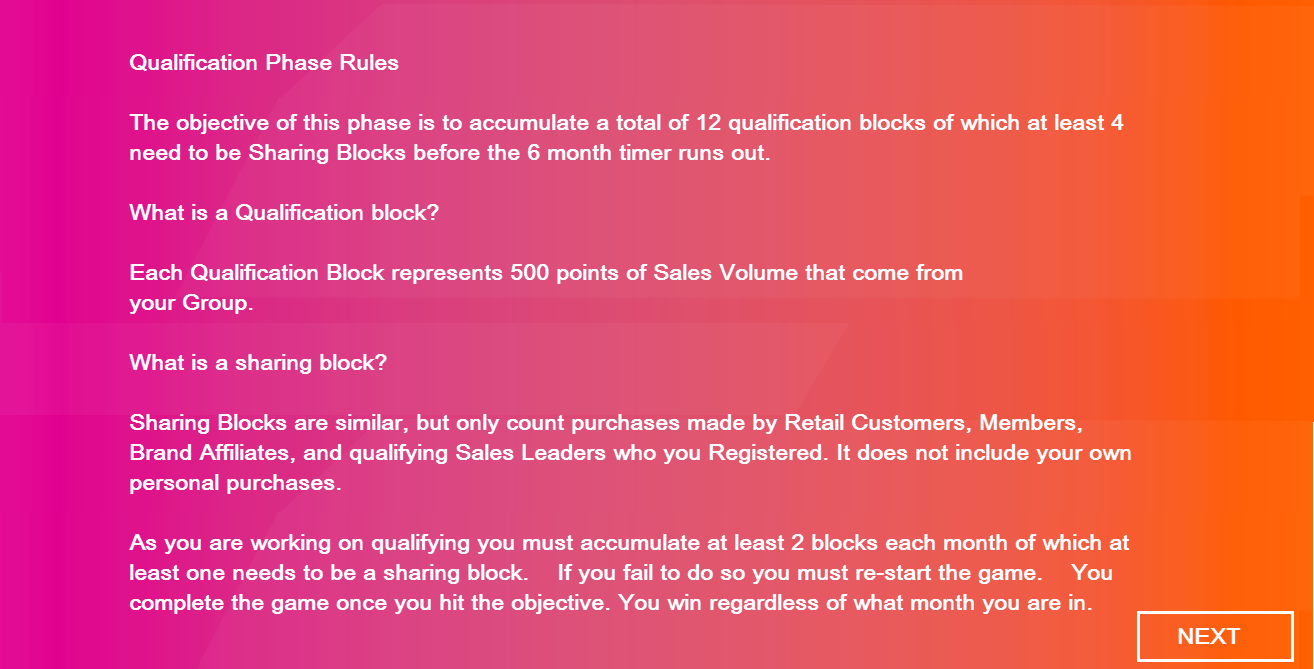
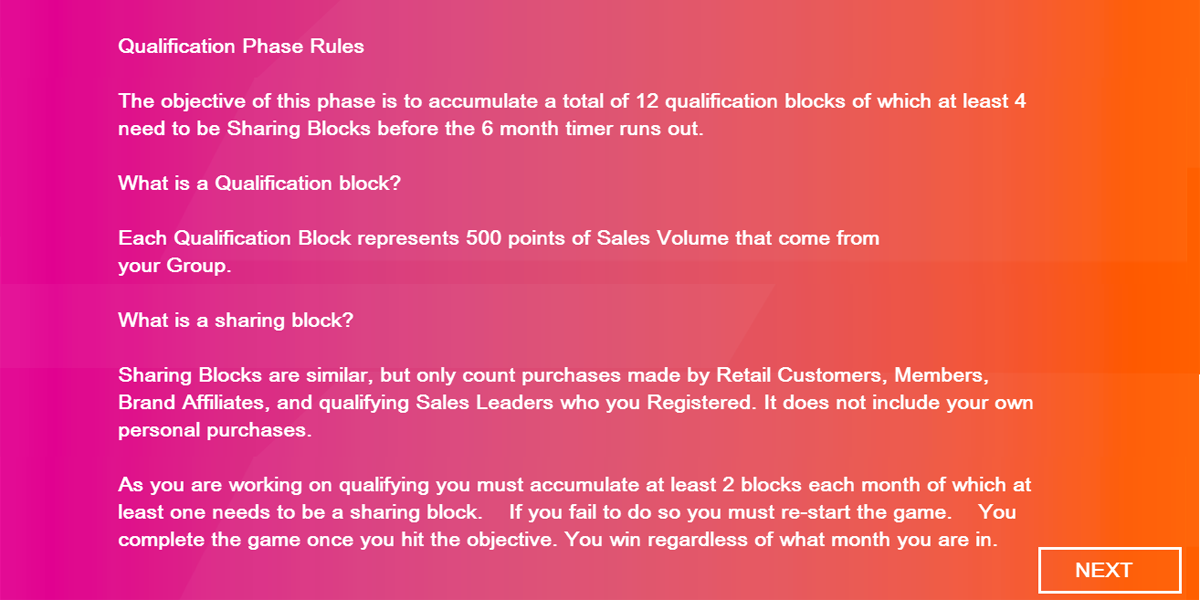
Add congrats image and fix image sizes

diff --git a/assets/canvas/Level2.js b/assets/canvas/Level2.js
@@ -6,20 +6,20 @@
 
 var groupSalesVolume = 0, personalSalesVolume = 0, percentDone, progress, numberDistributors = 0, congrats;
 /**
- * Level.
+ * Level2.
  */
-function Level() {
+function Level2() {
 	
 	Phaser.State.call(this);
 	
 }
 
 /** @type Phaser.State */
-var Level_proto = Object.create(Phaser.State.prototype);
-Level.prototype = Level_proto;
-Level.prototype.constructor = Level;
+var Level2_proto = Object.create(Phaser.State.prototype);
+Level2.prototype = Level2_proto;
+Level2.prototype.constructor = Level2;
 
-Level.prototype.init = function () {
+Level2.prototype.init = function () {
 	
 	this.scale.scaleMode = Phaser.ScaleManager.SHOW_ALL;
 	this.scale.pageAlignHorizontally = true;
@@ -27,15 +27,15 @@ Level.prototype.init = function () {
 	
 };
 
-Level.prototype.preload = function () {
+Level2.prototype.preload = function () {
 	
-	this.load.pack('level', 'assets/pack.json');
+	this.load.pack('level2', 'assets/pack2.json');
   this.load.image('bar', 'assets/images/bar.png');
   this.load.image('congrats', 'assets/images/congrats.png')
 
 };
 
-Level.prototype.create = function () {
+Level2.prototype.create = function () {
 	
 	this.beforeCreate();
 	
@@ -372,7 +372,7 @@ Level.prototype.create = function () {
 
 /* --- end generated code --- */
 
-Level.prototype.beforeCreate = function() {
+Level2.prototype.beforeCreate = function() {
 	// world
 	this.world.resize(2200, 1800);
 
@@ -386,56 +386,54 @@ Level.prototype.beforeCreate = function() {
 	this.cursors = this.input.keyboard.createCursorKeys();
 };
 
-Level.prototype.afterCreate = function () {
+Level2.prototype.afterCreate = function () {
 	this.camera.follow(this.fPlayer);
 };
 
-Level.prototype.update = function() {
+Level2.prototype.update = function() {
 	this.physics.arcade.collide(this.fPlayer, this.fCollisionLayer);
   var playerOverlap = this.physics.arcade.overlap(this.fPlayer, this.fFruits, collectFruit, null, this);
-	if (!congrats.visible)
-	{
-    if (this.cursors.left.isDown) {
-      // move to the left
-      this.fPlayer.body.velocity.x = -200;
-    } else if (this.cursors.right.isDown) {
-      // move to the right
-      this.fPlayer.body.velocity.x = 200;
-    } else {
-      // dont move in the horizontal
-      this.fPlayer.body.velocity.x = 0;
-    }
+	if (this.cursors.left.isDown) {
+		// move to the left
+		this.fPlayer.body.velocity.x = -200;
+	} else if (this.cursors.right.isDown) {
+		// move to the right
+		this.fPlayer.body.velocity.x = 200;
+	} else {
+		// dont move in the horizontal
+		this.fPlayer.body.velocity.x = 0;
+	}
 
-    // a flag to know if the player is (down) touching the platforms
-    var touching = this.fPlayer.body.touching.down;
+	// a flag to know if the player is (down) touching the platforms
+	var touching = this.fPlayer.body.touching.down;
 
-    if (touching && this.cursors.up.isDown) {
-      // jump if the player is on top of a platform and the up key is pressed
-      this.fPlayer.body.velocity.y = -600;
-    }
-
-    if (touching) {
-      if (this.fPlayer.body.velocity.x == 0) {
-        // if it is not moving horizontally play the idle
-        this.fPlayer.play("idle");
-      } else {
-        // if it is moving play the walk
-        this.fPlayer.play("walk");
-      }
-    } else {
-      // it is not touching the platforms so it means it is jumping.
-      this.fPlayer.play("jump");
-    }
-
-		// update the facing of the player
-		if (this.cursors.left.isDown) {
-				// face left
-				this.fPlayer.scale.x = -1;
-		} else if (this.cursors.right.isDown) {
-			 // face right
-			 this.fPlayer.scale.x = 1;
-		}
-  }
+	if (touching && this.cursors.up.isDown) {
+		// jump if the player is on top of a platform and the up key is pressed
+		this.fPlayer.body.velocity.y = -600;
+	}
+	
+	if (touching) {
+	    if (this.fPlayer.body.velocity.x == 0) {
+	        // if it is not moving horizontally play the idle
+	        this.fPlayer.play("idle");
+	    } else {
+	        // if it is moving play the walk
+	        this.fPlayer.play("walk");
+	    }
+	} else {
+	    // it is not touching the platforms so it means it is jumping.
+	    this.fPlayer.play("jump");
+	}
+	
+	// update the facing of the player
+	if (this.cursors.left.isDown) {
+	    // face left
+	    this.fPlayer.scale.x = -1;
+	} else if (this.cursors.right.isDown) {
+	   // face right
+	   this.fPlayer.scale.x = 1;
+	}
+	
 	// fruits
 	this.physics.arcade.overlap(this.fPlayer, this.fFruits, this.playerVsFruit, null, this);
 	
@@ -449,9 +447,7 @@ Level.prototype.update = function() {
   if (numberDistributors > 0 && groupSalesVolume > 100)
 	{
 		congrats.visible = true;
-    this.fPlayer.play("idle");
-    this.fPlayer.body.velocity.x = 0;
-    this.fPlayer.body.velocity.y = 0;
+		this.game.paused = true;
 	}
 };
 
@@ -461,7 +457,7 @@ Level.prototype.update = function() {
  * @param {Phaser.Sprite}
  *            fruit
  */
-Level.prototype.playerVsFruit = function(player, fruit) {
+Level2.prototype.playerVsFruit = function(player, fruit) {
 	fruit.body.enable = false;
 	
 	this.add.tween(fruit).to({
@@ -478,9 +474,9 @@ Level.prototype.playerVsFruit = function(player, fruit) {
 	}, 1000, "Linear", true).onComplete.add(fruit.kill, fruit);
 };
 
-Level.prototype.nextLevel = function()
+Level2.prototype.nextLevel = function()
 {
-  this.game.state.start("QualifyingRules");
+
 }
 
 function collectFruit(player, fruit)

diff --git a/js/qualRules.js b/js/qualRules.js
@@ -1,0 +1,13 @@
+var QualifyingRules = function() {};
+
+QualifyingRules.prototype = {
+  preload: function() {
+    this.game.load.image("QualifyingRules","assets/images/QualPhaseRules.png");
+  },
+  create: function() {
+    var playButton = this.game.add.button(0,0,"QualifyingRules",this.playTheGame,this);
+  },
+  playTheGame: function() {
+    this.game.state.start("Level2");
+  }
+};

diff --git a/index.html b/index.html
@@ -12,7 +12,9 @@
 <script src="js/menu.js"></script>
 <script src="js/sharingRules.js"></script>
     <script src="js/congrats.js"></script>
+    <script src="js/qualRules.js"></script>
     <script src="assets/canvas/Level.js"></script>
+    <script src="assets/canvas/Level2.js"></script>
 
 <style>
 body {

diff --git a/js/Main.js b/js/Main.js
@@ -7,6 +7,8 @@ window.onload = function() {
 	game.state.add("SharingRules", SharingRules);
 	game.state.add("Congrats", Congrats);
 	game.state.add("Level", Level);
+	game.state.add("QualifyingRules", QualifyingRules);
+	game.state.add("Level2", Level2);
 
 	game.state.start("Menu");
 };
